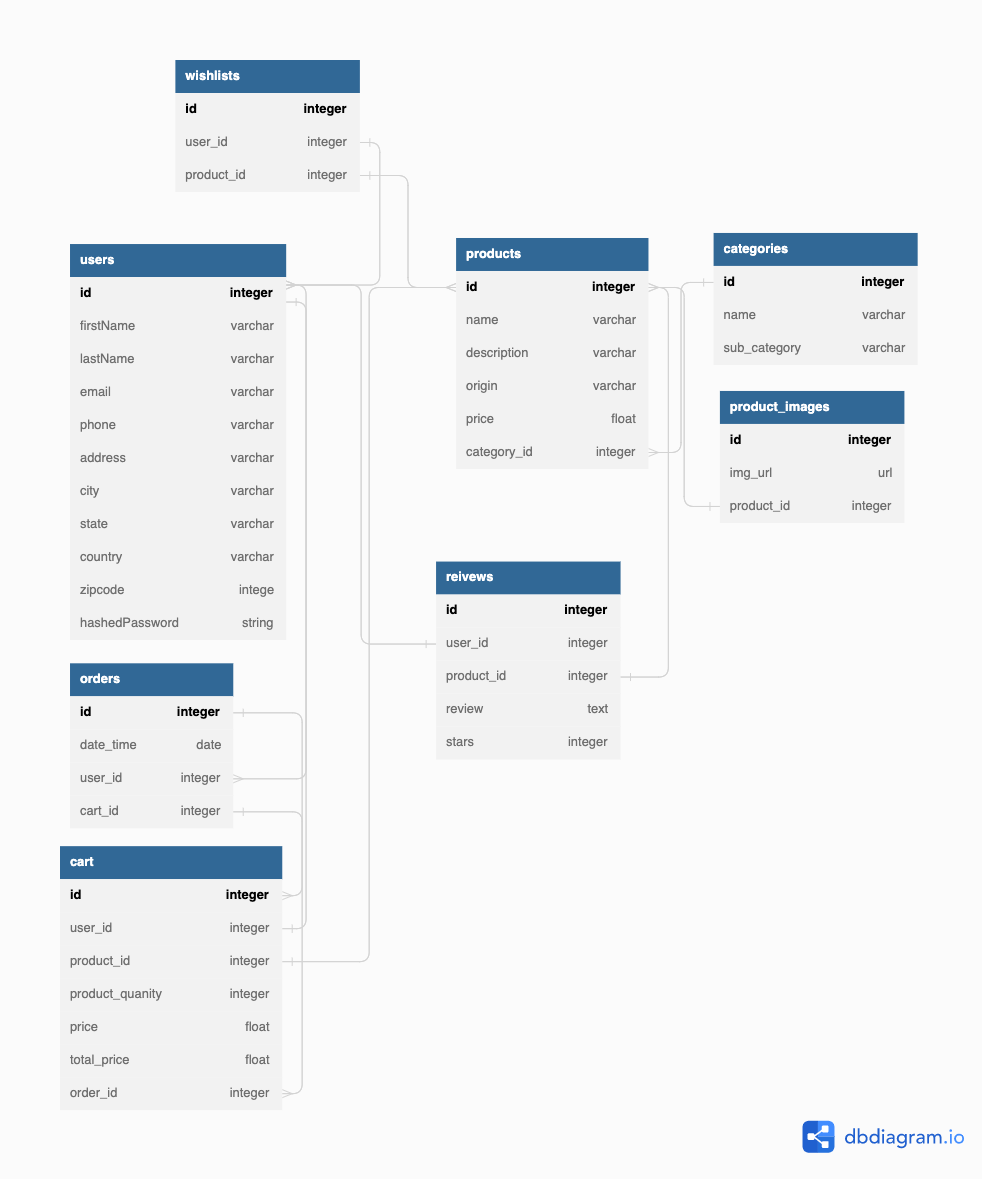
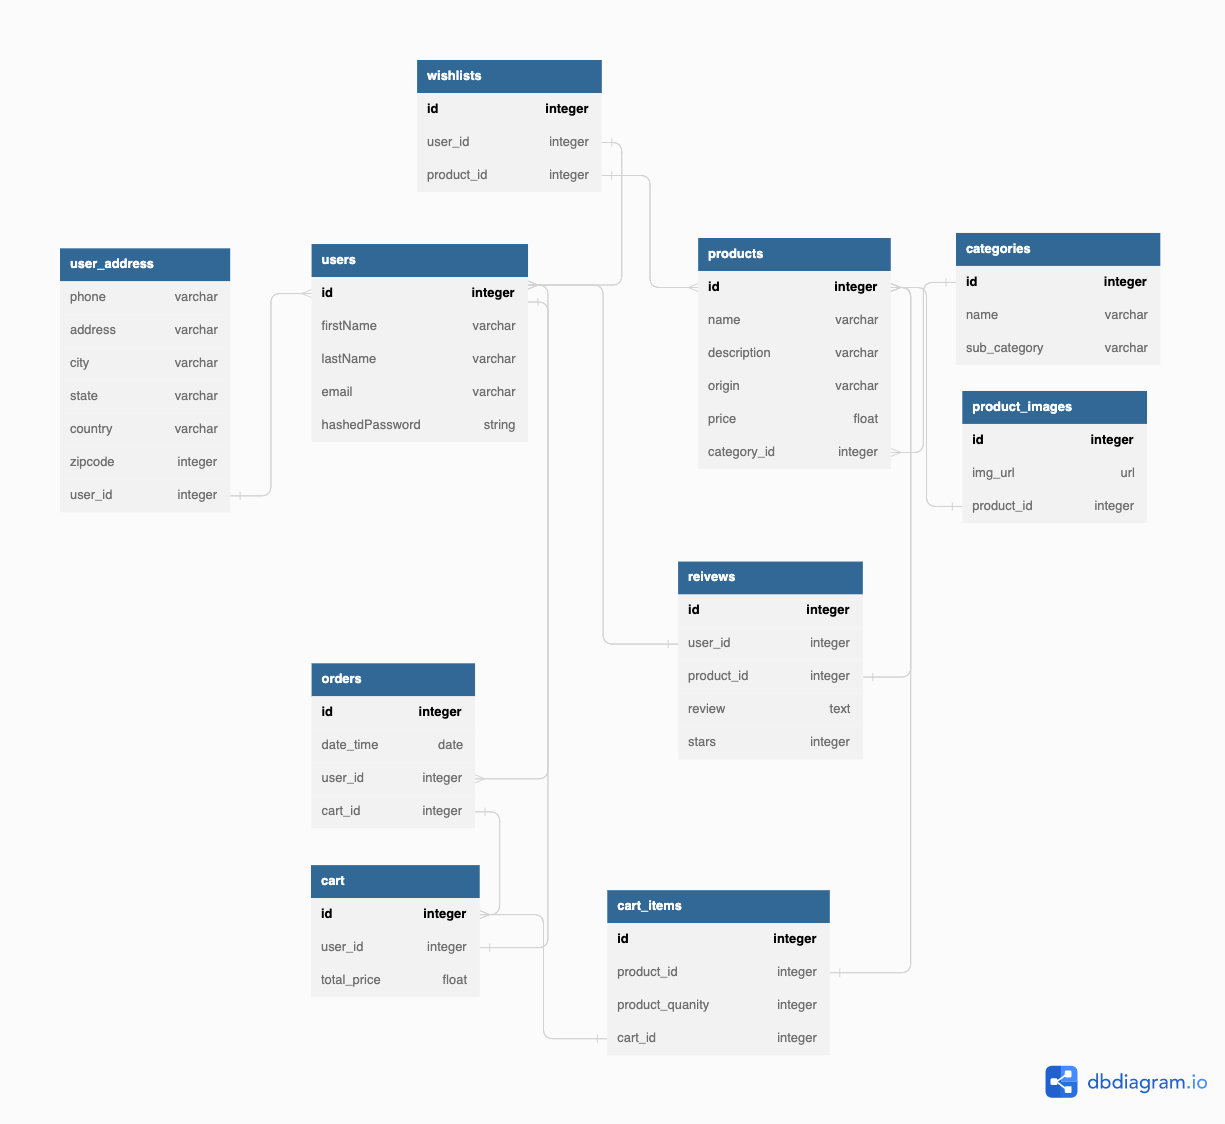
model update

diff --git a/react-app/src/components/Products/index.js b/react-app/src/components/Products/index.js
@@ -6,20 +6,37 @@ import { getAllProducts } from '../../store/products'
 export default function Products() {
     const dispatch = useDispatch()
     const { category } = useParams()
+    const [loaded, setLoaded] = useState(false)
     const products = Object.values(useSelector((state) => state.products));
-    console.log("products", products)
-    console.log("categoryId", category)
-
 
     useEffect(() => {
-        dispatch(getAllProducts(category))
-    }, [dispatch])
+        dispatch(getAllProducts(category)).then(() => setLoaded(true));
+    }, [dispatch, category, loaded])
 
-    if(!products) return null;
+    if (!products) return null;
+
+    if (!loaded) {
+        return (
+            <div>
+                {products.map((product) =>
+                    <div>
+                        <div>{product.name}</div>
+                        <button>Add to Cart</button>
+                    </div>
+                )}
+            </div>
+        )
+    }
 
     return (
         <div>
-            {products.map((product) => <div>{product.name}</div>)}
+            {products.map((product) =>
+                <div>
+                    <div>{product.name}</div>
+                    <button>Add to Cart</button>
+                </div>
+            )}
         </div>
     )
+
 }

diff --git a/react-app/src/App.js b/react-app/src/App.js
@@ -1,5 +1,5 @@
 import React, { useState, useEffect } from 'react';
-import { BrowserRouter, Route, Switch } from 'react-router-dom';
+import { Route, Switch } from 'react-router-dom';
 import { useDispatch } from 'react-redux';
 import LoginForm from './components/auth/LoginForm';
 import SignUpForm from './components/auth/SignUpForm';
@@ -8,6 +8,7 @@ import ProtectedRoute from './components/auth/ProtectedRoute';
 import User from './components/Users';
 import { authenticate } from './store/session';
 import Products from './components/Products';
+import Cart from './components/Cart';
 
 function App() {
   const [loaded, setLoaded] = useState(false);
@@ -30,6 +31,9 @@ function App() {
       <Switch>
         <Route path='/products/:category' exact={true}>
           <Products />
+        </Route>
+        <Route path='/cart' exact={true}>
+          <Cart />
         </Route>
         <Route path='/login' exact={true}>
           <LoginForm />

diff --git a/react-app/src/components/NavigationBar/index.js b/react-app/src/components/NavigationBar/index.js
@@ -28,6 +28,16 @@ const NavBar = () => {
           </NavLink>
         </li>
         <li>
+          <NavLink to='/products/seafood' exact={true} activeClassName='active'>
+            Products
+          </NavLink>
+        </li>
+        <li>
+          <NavLink to='/cart' exact={true} activeClassName='active'>
+            Cart
+          </NavLink>
+        </li>
+        <li>
           <LogoutButton />
         </li>
       </ul>

diff --git a/react-app/src/components/Cart/index.js b/react-app/src/components/Cart/index.js
@@ -1,0 +1,9 @@
+import React from "react";
+
+export default function Cart() {
+    return (
+        <div>
+            <h1>Cart</h1>
+        </div>
+    )
+}

diff --git a/app/models/models.py b/app/models/models.py
@@ -45,10 +45,16 @@ class User(db.Model, UserMixin):
     country = db.Column(db.String(40), default='United States')
     zip_code = db.Column(db.Integer)
 
-    cart = db.relationship('Cart', back_populates='user', cascade='all, delete-orphan')
-    order = db.relationship('Order', back_populates='user', cascade='all, delete-orphan')
-    review = db.relationship('Review', back_populates='user', cascade='all, delete-orphan')
-    wishlist = db.relationship('Wishlist', back_populates='user', cascade='all, delete-orphan')
+    address = db.relationship(
+        'UserAddress', back_populates='user', cascade='all, delete-orphan')
+    cart = db.relationship('Cart', back_populates='user',
+                           cascade='all, delete-orphan')
+    order = db.relationship('Order', back_populates='user',
+                            cascade='all, delete-orphan')
+    review = db.relationship(
+        'Review', back_populates='user', cascade='all, delete-orphan')
+    wishlist = db.relationship(
+        'Wishlist', back_populates='user', cascade='all, delete-orphan')
 
     @property
     def password(self):
@@ -70,6 +76,24 @@ class User(db.Model, UserMixin):
         }
 
 
+class UserAddress(db.Model):
+    __tablename__ = 'user_addresses'
+
+    if environment == "production":
+        __table_args__ = {'schema': SCHEMA}
+
+    phone = db.Column(db.String(15))
+    address = db.Column(db.String(40))
+    city = db.Column(db.String(40))
+    state = db.Column(db.String(40))
+    country = db.Column(db.String(40), default='United States')
+    zip_code = db.Column(db.Integer)
+    user_id = db.Column(db.Integer, db.ForeignKey(
+        add_prefix_for_prod('users.id')), nullable=False)
+
+    user = db.relationship('User', back_populates='address')
+
+
 class Product(db.Model):
     __tablename__ = 'products'
 
@@ -87,7 +111,8 @@ class Product(db.Model):
     product_images = db.relationship(
         'ProductImage', back_populates='product', cascade='all, delete-orphan')
     category = db.relationship('Category', back_populates='product')
-    cart = db.relationship('Cart', secondary='cart_products', back_populates='product')
+    cart = db.relationship(
+        'Cart', secondary='cart_products', back_populates='product')
     review = db.relationship('Review', back_populates='product')
     wishlist = db.relationship('Wishlist', back_populates='product')
 
@@ -176,15 +201,12 @@ class Cart(db.Model):
     id = db.Column(db.Integer, primary_key=True)
     user_id = db.Column(db.Integer, db.ForeignKey(
         add_prefix_for_prod('users.id')), nullable=False)
-    product_id = db.Column(db.Integer, db.ForeignKey(
-        add_prefix_for_prod('products.id')), nullable=False)
-    product_quantity = db.Column(db.Integer, nullable=False)
-    price = db.Column(db.Float, nullable=False)
     total_price = db.Column(db.Float, nullable=False)
 
     user = db.relationship('User', back_populates='cart')
     order = db.relationship('Order', back_populates='cart')
-    product = db.relationship('Product', secondary='cart_products', back_populates='cart')
+    product = db.relationship(
+        'Product', secondary='cart_products', back_populates='cart')
 
     def to_dict(self):
         return {
@@ -196,6 +218,21 @@ class Cart(db.Model):
             'totalPrice': self.total_price,
             'orderId': self.order_id
         }
+
+
+class CartItem(db.Model):
+    __tablename__ = 'cart_items'
+
+    if environment == "production":
+        __table_args__ = {'schema': SCHEMA}
+
+    id = db.Column(db.Integer, primary_key=True)
+    product_quantity = db.Column(db.Integer, nullable=False)
+    total_item_price = db.Column(db.Float, nullable=False)
+    product_id = db.Column(db.Integer, db.ForeignKey(
+        add_prefix_for_prod('products.id')), nullable=False)
+    cart_id = db.Column(db.Integer, db.ForeignKey(
+        add_prefix_for_prod('carts.id')), nullable=False)
 
 
 class Review(db.Model):
@@ -224,6 +261,7 @@ class Review(db.Model):
             'stars': self.stars
         }
 
+
 class Wishlist(db.Model):
     __tablename__ = 'wishlists'
 
@@ -238,7 +276,6 @@ class Wishlist(db.Model):
 
     user = db.relationship('User', back_populates='wishlist')
     product = db.relationship('Product', back_populates='wishlist')
-
 
     def to_dict(self):
         return {

diff --git a/app/__init__.py b/app/__init__.py
@@ -8,6 +8,7 @@ from .models import db, User
 from .api.user_routes import user_routes
 from .api.auth_routes import auth_routes
 from .api.product_routes import product_routes
+from .api.cart_routes import cart_routes
 from .seeds import seed_commands
 from .config import Config
 
@@ -30,6 +31,7 @@ app.config.from_object(Config)
 app.register_blueprint(user_routes, url_prefix='/api/users')
 app.register_blueprint(auth_routes, url_prefix='/api/auth')
 app.register_blueprint(product_routes, url_prefix='/api/products')
+app.register_blueprint(cart_routes, url_prefix='/api/cart')
 db.init_app(app)
 Migrate(app, db)
 

diff --git a/app/seeds/users.py b/app/seeds/users.py
@@ -4,7 +4,7 @@ from app.models import db, User, environment, SCHEMA
 # Adds a demo user, you can add other users here if you want
 def seed_users():
     demo = User(
-        first_name='Demo', last_name="Mon", email='demo@aa.io', password='pass', phone='4087778106', address='123 Fake Street', city='Demo City', state='CA', zip_code=94014)
+        first_name='Demo', last_name="Mon", email='demo@aa.io', password='pass')
 
     db.session.add(demo)
     db.session.commit()

diff --git a/app/api/cart_routes.py b/app/api/cart_routes.py
@@ -1,0 +1,9 @@
+from flask import Blueprint, jsonify
+# from flask_login import login_required
+from app.models import Product, Category
+
+cart_routes = Blueprint('cart', __name__)
+
+@cart_routes.route('/addItem', methods=["POST"])
+def add_to_cart():
+    pass
